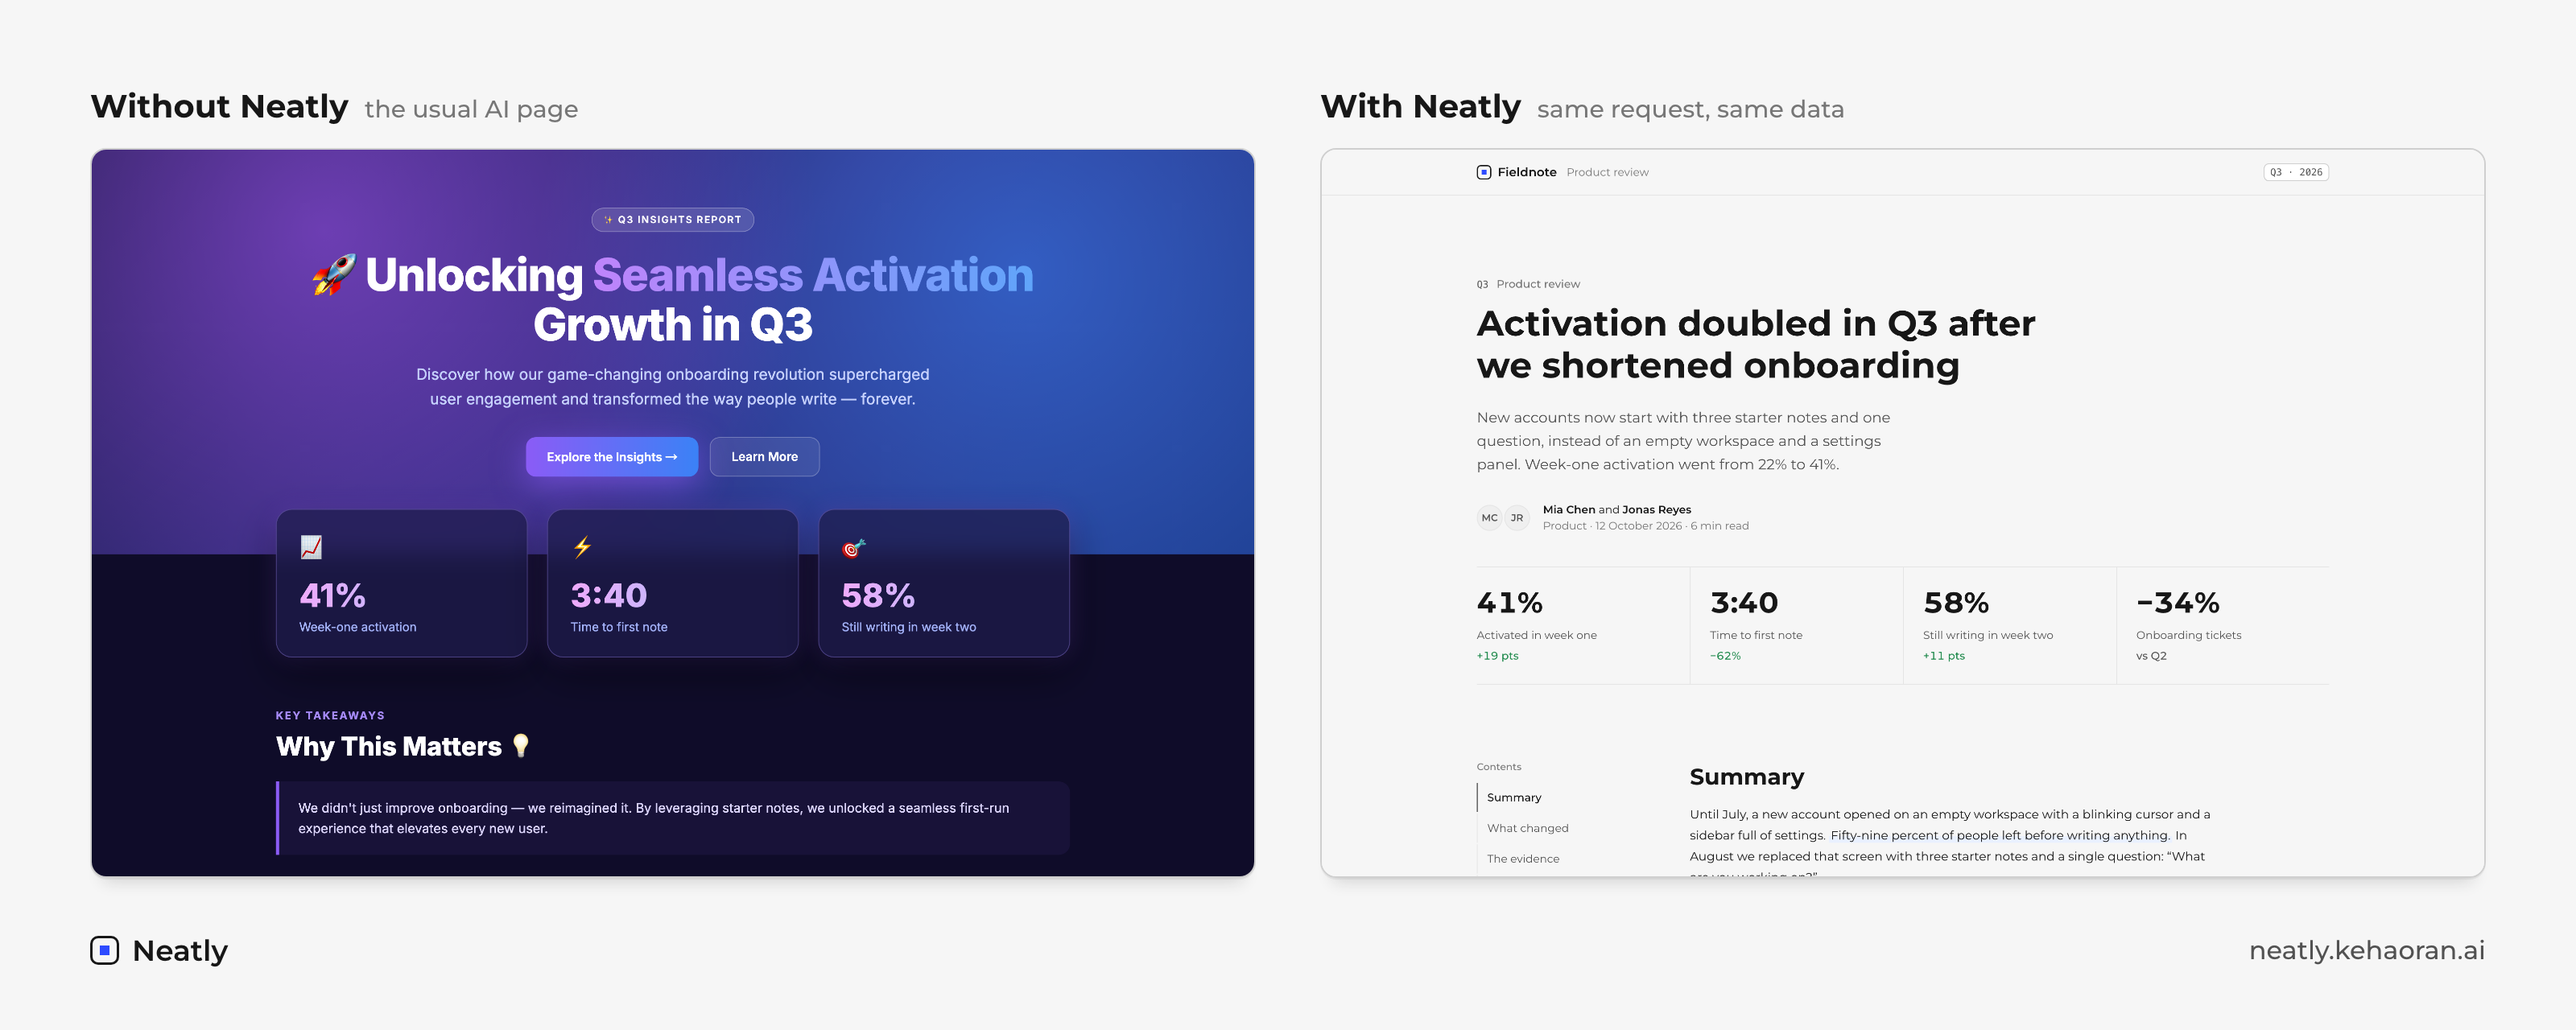
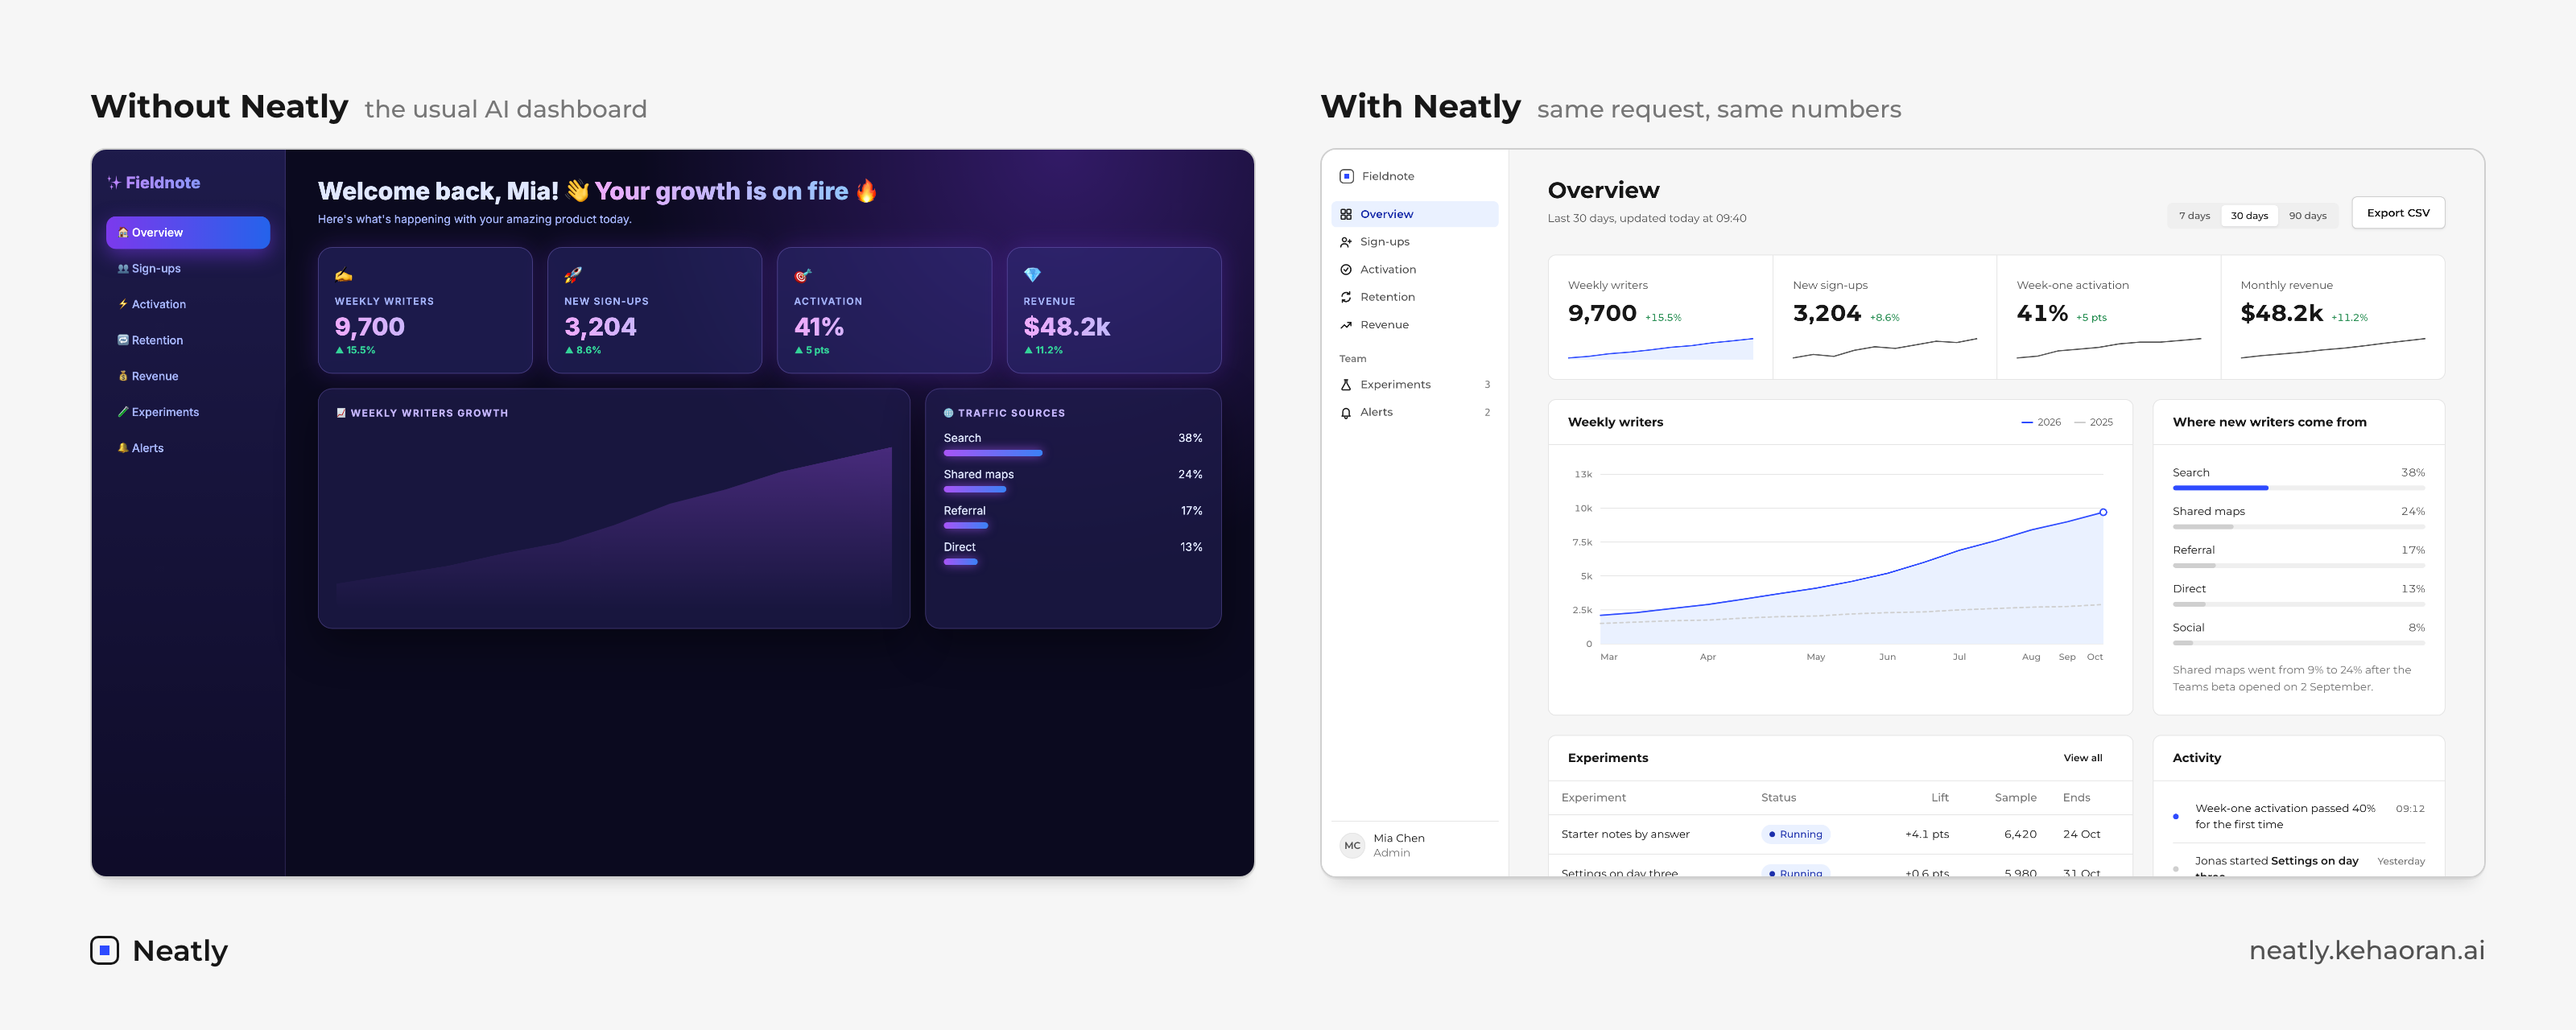
update: lead with the dashboard comparison instead of the report
The report comparison set a loud AI hero against the quiet top of a long
read, so the Neatly side looked weaker than it is. The dashboard pair shows
the same numbers and the same chart both ways, so the only difference left
is the design. docs/ also keeps AI-style versions of the dashboard, deck
and landing page, and a first-screen report, for future comparison images.

diff --git a/docs/before-dashboard.html b/docs/before-dashboard.html
@@ -1,0 +1,36 @@
+<!doctype html>
+<html lang="en"><head><meta charset="utf-8"><title>Before: dashboard</title>
+<!-- Reference page for comparison images: the Fieldnote dashboard in the usual AI style. Not a Neatly page. -->
+<link rel="stylesheet" href="https://fonts.googleapis.com/css2?family=Inter:wght@400;500;600;700;800&display=swap">
+<style>
+*{box-sizing:border-box;margin:0}body{font-family:Inter,sans-serif;background:#0b0a1f;color:#e0e7ff;display:grid;grid-template-columns:240px 1fr;min-height:100vh}
+.side{background:linear-gradient(180deg,#1e1b4b,#0f0c29);padding:28px 18px;border-right:1px solid rgba(167,139,250,.2)}
+.logo{font-weight:800;font-size:20px;background:linear-gradient(90deg,#c084fc,#60a5fa);-webkit-background-clip:text;color:transparent;margin-bottom:28px}
+.side a{display:block;padding:11px 14px;border-radius:12px;color:#a5b4fc;font-size:14px;font-weight:500;margin-bottom:4px}
+.side a.on{background:linear-gradient(90deg,#7c3aed,#2563eb);color:#fff;box-shadow:0 8px 24px rgba(124,58,237,.5)}
+main{padding:32px 40px;background:radial-gradient(circle at 80% 0%,rgba(124,58,237,.35),transparent 40%)}
+h1{font-size:30px;font-weight:800}h1 span{background:linear-gradient(90deg,#f0abfc,#93c5fd);-webkit-background-clip:text;color:transparent}
+.hi{color:#a5b4fc;margin-top:6px;font-size:14px}
+.kpis{display:grid;grid-template-columns:repeat(4,1fr);gap:18px;margin-top:26px}
+.k{padding:20px;border-radius:18px;background:rgba(49,46,129,.45);border:1px solid rgba(167,139,250,.3);backdrop-filter:blur(12px);box-shadow:0 0 30px rgba(124,58,237,.25)}
+.k .i{font-size:22px}.k p{margin-top:10px;font-size:12px;letter-spacing:.1em;text-transform:uppercase;color:#a5b4fc;font-weight:600}
+.k b{display:block;margin-top:6px;font-size:30px;font-weight:800;background:linear-gradient(90deg,#f0abfc,#93c5fd);-webkit-background-clip:text;color:transparent}
+.k em{font-style:normal;font-size:12px;color:#34d399;font-weight:700}
+.row{display:grid;grid-template-columns:2fr 1fr;gap:18px;margin-top:18px}
+.panel{padding:22px;border-radius:18px;background:rgba(30,27,75,.7);border:1px solid rgba(167,139,250,.25);box-shadow:0 20px 50px rgba(0,0,0,.4)}
+.panel h3{font-size:12px;letter-spacing:.12em;text-transform:uppercase;color:#c4b5fd}
+.chart{height:220px;margin-top:16px;border-radius:12px;background:linear-gradient(180deg,rgba(168,85,247,.35),rgba(59,130,246,0));clip-path:polygon(0 85%,10% 80%,20% 75%,30% 68%,40% 62%,50% 52%,60% 40%,70% 32%,80% 22%,90% 15%,100% 8%,100% 100%,0 100%)}
+.src div{display:flex;justify-content:space-between;margin-top:14px;font-size:14px}.src i{display:block;height:8px;border-radius:9px;margin-top:6px;background:linear-gradient(90deg,#a855f7,#3b82f6);box-shadow:0 0 12px rgba(168,85,247,.7)}
+</style></head><body>
+<nav class="side"><div class="logo">✨ Fieldnote</div><a class="on">🏠 Overview</a><a>👥 Sign-ups</a><a>⚡ Activation</a><a>🔁 Retention</a><a>💰 Revenue</a><a>🧪 Experiments</a><a>🔔 Alerts</a></nav>
+<main>
+<h1>Welcome back, Mia! 👋 <span>Your growth is on fire</span> 🔥</h1><p class="hi">Here's what's happening with your amazing product today.</p>
+<div class="kpis">
+<div class="k"><div class="i">✍</div><p>Weekly Writers</p><b>9,700</b><em>▲ 15.5%</em></div>
+<div class="k"><div class="i">🚀</div><p>New Sign-ups</p><b>3,204</b><em>▲ 8.6%</em></div>
+<div class="k"><div class="i">🎯</div><p>Activation</p><b>41%</b><em>▲ 5 pts</em></div>
+<div class="k"><div class="i">💎</div><p>Revenue</p><b>$48.2k</b><em>▲ 11.2%</em></div>
+</div>
+<div class="row"><div class="panel"><h3>📈 Weekly Writers Growth</h3><div class="chart"></div></div>
+<div class="panel src"><h3>🌐 Traffic Sources</h3><div>Search<span>38%</span></div><i style="width:38%"></i><div>Shared maps<span>24%</span></div><i style="width:24%"></i><div>Referral<span>17%</span></div><i style="width:17%"></i><div>Direct<span>13%</span></div><i style="width:13%"></i></div></div>
+</main></body></html>

diff --git a/docs/after-report.html b/docs/after-report.html
@@ -1,0 +1,55 @@
+<!doctype html>
+<html lang="en">
+<head>
+<meta charset="utf-8">
+<meta name="viewport" content="width=device-width, initial-scale=1">
+<title>After: the Q3 review, first screen</title>
+<!-- Reference page for comparison images: the same Q3 review as docs/before.html,
+     composed so the first screen carries the finding, the numbers and the chart. -->
+<link rel="stylesheet" href="https://fonts.googleapis.com/css2?family=Montserrat:wght@400..800&display=swap">
+<link rel="stylesheet" href="../skills/neatly/neatly.css">
+<style>
+.hero { display: grid; grid-template-columns: minmax(0, 1fr) 520px; gap: 56px; align-items: center; padding: 64px 0 40px; }
+.hero h1 { font-size: 44px; line-height: 52px; }
+.hero .nt-lede { margin-top: 20px; }
+.hero .nt-figure { margin: 0; }
+.hero .nt-metrics { margin: 0; }
+</style>
+<script src="../skills/neatly/neatly.js"></script>
+</head>
+<body>
+<header class="nt-topbar">
+  <div class="nt-wrap nt-row">
+    <a class="nt-brand" href="#">Fieldnote</a>
+    <span class="nt-faint nt-small">Product review</span>
+    <span class="nt-grow"></span>
+    <span class="nt-label">Q3 · 2026</span>
+  </div>
+</header>
+<main class="nt-wrap">
+  <section class="hero">
+    <div>
+      <div class="nt-kicker"><b>Q3</b>Product review</div>
+      <h1>Activation doubled in Q3 after we <span class="nt-mark">shortened onboarding</span></h1>
+      <p class="nt-lede">New accounts now start with three starter notes and one question, instead of an empty workspace. Week-one activation went from 22% to 41%.</p>
+      <div class="nt-byline"><span class="nt-avatar">MC</span><span class="nt-avatar">JR</span><span><b>Mia Chen</b> and <b>Jonas Reyes</b><br><span class="nt-faint">Product · 12 October 2026</span></span></div>
+    </div>
+    <figure class="nt-figure">
+      <div class="nt-frame nt-chart-frame">
+        <div class="nt-chart-head nt-row"><b>Weekly activation</b><span class="nt-grow"></span><div class="nt-legend"><span><i class="is-accent"></i>2026</span><span><i class="is-faint"></i>2025</span></div></div>
+        <svg class="nt-chart" data-chart="line" data-height="250" data-unit="%"
+          data-series='[[18,19,17,20,19,21,20,22,21,20,23,22,24],[20,21,20,22,21,23,22,30,34,36,39,40,41]]'
+          data-labels='["Jul 6","","Jul 20","","Aug 3","","Aug 17","","Aug 31","","Sep 14","","Sep 28"]' data-accent="1"></svg>
+      </div>
+      <figcaption><b>Fig. 1</b>The new flow reached everyone on 24 August.</figcaption>
+    </figure>
+  </section>
+  <section class="nt-metrics" aria-label="Headline numbers">
+    <div class="nt-metric"><b>41%</b><span>Activated in week one</span><span class="nt-delta is-good">+19 pts</span></div>
+    <div class="nt-metric"><b>3:40</b><span>Time to first note</span><span class="nt-delta is-good">−62%</span></div>
+    <div class="nt-metric"><b>58%</b><span>Still writing in week two</span><span class="nt-delta is-good">+11 pts</span></div>
+    <div class="nt-metric"><b>−34%</b><span>Onboarding tickets</span><span class="nt-delta is-good">vs Q2</span></div>
+  </section>
+</main>
+</body>
+</html>

diff --git a/docs/before-landing.html b/docs/before-landing.html
@@ -1,0 +1,22 @@
+<!doctype html>
+<html lang="en"><head><meta charset="utf-8"><title>Before: landing page</title>
+<!-- Reference page for comparison images: the Fieldnote landing page in the usual AI style. Not a Neatly page. -->
+<link rel="stylesheet" href="https://fonts.googleapis.com/css2?family=Inter:wght@400;500;600;700;800&display=swap">
+<style>
+*{box-sizing:border-box;margin:0}body{font-family:Inter,sans-serif;color:#fff;background:#0b0a1f}
+nav{display:flex;align-items:center;justify-content:space-between;padding:22px 64px}nav b{font-size:20px;font-weight:800}nav div{display:flex;gap:28px;font-size:14px;color:#c7d2fe}nav i{font-style:normal;padding:10px 18px;border-radius:10px;background:linear-gradient(90deg,#8b5cf6,#3b82f6);color:#fff;font-weight:600}
+.hero{padding:60px 64px 90px;text-align:center;background:radial-gradient(circle at 30% 10%,rgba(168,85,247,.5),transparent 45%),radial-gradient(circle at 75% 30%,rgba(59,130,246,.5),transparent 45%)}
+.pill{display:inline-block;padding:7px 16px;border-radius:999px;background:rgba(255,255,255,.1);border:1px solid rgba(255,255,255,.25);font-size:13px;font-weight:600}
+h1{margin:24px auto 0;max-width:900px;font-size:68px;line-height:1.05;font-weight:800;letter-spacing:-.03em}h1 span{background:linear-gradient(90deg,#c084fc,#60a5fa,#22d3ee);-webkit-background-clip:text;color:transparent}
+p{max-width:620px;margin:22px auto 0;font-size:19px;line-height:1.6;color:#c7d2fe}
+.b{margin-top:34px;display:flex;gap:14px;justify-content:center}.b span{padding:16px 28px;border-radius:14px;font-weight:700;background:linear-gradient(90deg,#8b5cf6,#3b82f6);box-shadow:0 12px 40px rgba(139,92,246,.6)}.b span+span{background:rgba(255,255,255,.08);border:1px solid rgba(255,255,255,.25);box-shadow:none}
+.f{display:grid;grid-template-columns:repeat(3,1fr);gap:22px;max-width:1080px;margin:-40px auto 0;padding:0 40px}
+.f div{padding:26px;border-radius:20px;background:rgba(30,27,75,.8);border:1px solid rgba(167,139,250,.3);box-shadow:0 0 30px rgba(124,58,237,.25);text-align:left}.f em{font-style:normal;font-size:30px}.f h3{margin-top:12px;font-size:18px}.f small{display:block;margin-top:8px;color:#a5b4fc;font-size:14px;line-height:1.5}
+</style></head><body>
+<nav><b>✨ Fieldnote</b><div><span>Features</span><span>Pricing</span><span>About</span><i>Get Started →</i></div></nav>
+<section class="hero"><span class="pill">🎉 Now with AI-powered linking</span>
+<h1>Supercharge Your Notes With <span>AI Magic</span> 🚀</h1>
+<p>Unlock the full potential of your ideas with seamless, intelligent linking that transforms the way you think — forever.</p>
+<div class="b"><span>Start for Free ✨</span><span>Watch Demo</span></div></section>
+<div class="f"><div><em>🧠</em><h3>Smart Linking</h3><small>Effortlessly connect every idea with cutting-edge AI.</small></div><div><em>⚡</em><h3>Lightning Fast</h3><small>Blazing performance that keeps up with your genius.</small></div><div><em>🔒</em><h3>Secure by Design</h3><small>Enterprise-grade security you can trust.</small></div></div>
+</body></html>

diff --git a/docs/before-deck.html b/docs/before-deck.html
@@ -1,0 +1,18 @@
+<!doctype html>
+<html lang="en"><head><meta charset="utf-8"><title>Before: deck slide</title>
+<!-- Reference page for comparison images: the Fieldnote traction slide in the usual AI style. Not a Neatly page. -->
+<link rel="stylesheet" href="https://fonts.googleapis.com/css2?family=Inter:wght@400;500;600;700;800&display=swap">
+<style>
+*{box-sizing:border-box;margin:0}body{font-family:Inter,sans-serif;height:100vh;display:flex;flex-direction:column;align-items:center;justify-content:center;text-align:center;color:#fff;background:radial-gradient(circle at 15% 20%,rgba(236,72,153,.55),transparent 45%),radial-gradient(circle at 85% 80%,rgba(59,130,246,.6),transparent 45%),linear-gradient(135deg,#4c1d95,#1e1b4b)}
+.tag{padding:7px 16px;border-radius:999px;background:rgba(255,255,255,.14);border:1px solid rgba(255,255,255,.3);font-size:13px;font-weight:700;letter-spacing:.14em;text-transform:uppercase}
+h1{margin-top:22px;font-size:64px;font-weight:800;letter-spacing:-.02em}h1 span{background:linear-gradient(90deg,#f9a8d4,#93c5fd);-webkit-background-clip:text;color:transparent}
+p{margin-top:14px;font-size:20px;color:#ddd6fe}
+.cards{display:flex;gap:24px;margin-top:44px}
+.c{width:250px;padding:28px;border-radius:22px;background:rgba(255,255,255,.1);border:1px solid rgba(255,255,255,.25);backdrop-filter:blur(14px);box-shadow:0 20px 50px rgba(0,0,0,.35)}
+.c div{font-size:34px}.c b{display:block;margin-top:10px;font-size:40px;font-weight:800}.c span{font-size:14px;color:#e9d5ff}
+</style></head><body>
+<div class="tag">🚀 Traction</div>
+<h1>Explosive <span>Hypergrowth</span> 📈</h1>
+<p>We're not just growing — we're redefining how the world takes notes.</p>
+<div class="cards"><div class="c"><div>✍</div><b>9,700</b><span>Weekly writers</span></div><div class="c"><div>⚡</div><b>4.6x</b><span>Growth since March</span></div><div class="c"><div>🎯</div><b>41%</b><span>Week-one activation</span></div></div>
+</body></html>

diff --git a/docs/compare.html b/docs/compare.html
@@ -19,8 +19,8 @@ body { box-sizing: border-box; margin: 0; width: 1600px; height: 640px; padding:
 </head>
 <body>
 <div class="pair">
-  <div><div class="label">Without Neatly <small>the usual AI page</small></div><div class="shot"><img src="screenshots/before.png" alt=""></div></div>
-  <div><div class="label">With Neatly <small>same request, same data</small></div><div class="shot"><img src="screenshots/report.png" alt=""></div></div>
+  <div><div class="label">Without Neatly <small>the usual AI dashboard</small></div><div class="shot"><img src="screenshots/before-dashboard.png" alt=""></div></div>
+  <div><div class="label">With Neatly <small>same request, same numbers</small></div><div class="shot"><img src="screenshots/dashboard.png" alt=""></div></div>
 </div>
 <div class="foot"><span class="nt-brand">Neatly</span><span class="nt-grow"></span><span>neatly.kehaoran.ai</span></div>
 </body>

diff --git a/README.md b/README.md
@@ -16,7 +16,7 @@ Reports, slide decks, dashboards, landing pages and docs, in one calm visual sys
 
 </div>
 
-![The same Q3 report: the usual AI page on the left, the Neatly page on the right](docs/compare.png)
+![The same dashboard: the usual AI version on the left, the Neatly version on the right](docs/compare.png)
 
 ```bash
 npx skills add kehaoran-ai/neatly

diff --git a/README.zh-CN.md b/README.zh-CN.md
@@ -16,7 +16,7 @@
 
 </div>
 
-![同一份三季度报告：左边是 AI 默认做出来的页面，右边是 Neatly 做的](docs/compare.png)
+![同一个数据看板：左边是 AI 默认做出来的，右边是 Neatly 做的](docs/compare.png)
 
 ```bash
 npx skills add kehaoran-ai/neatly
